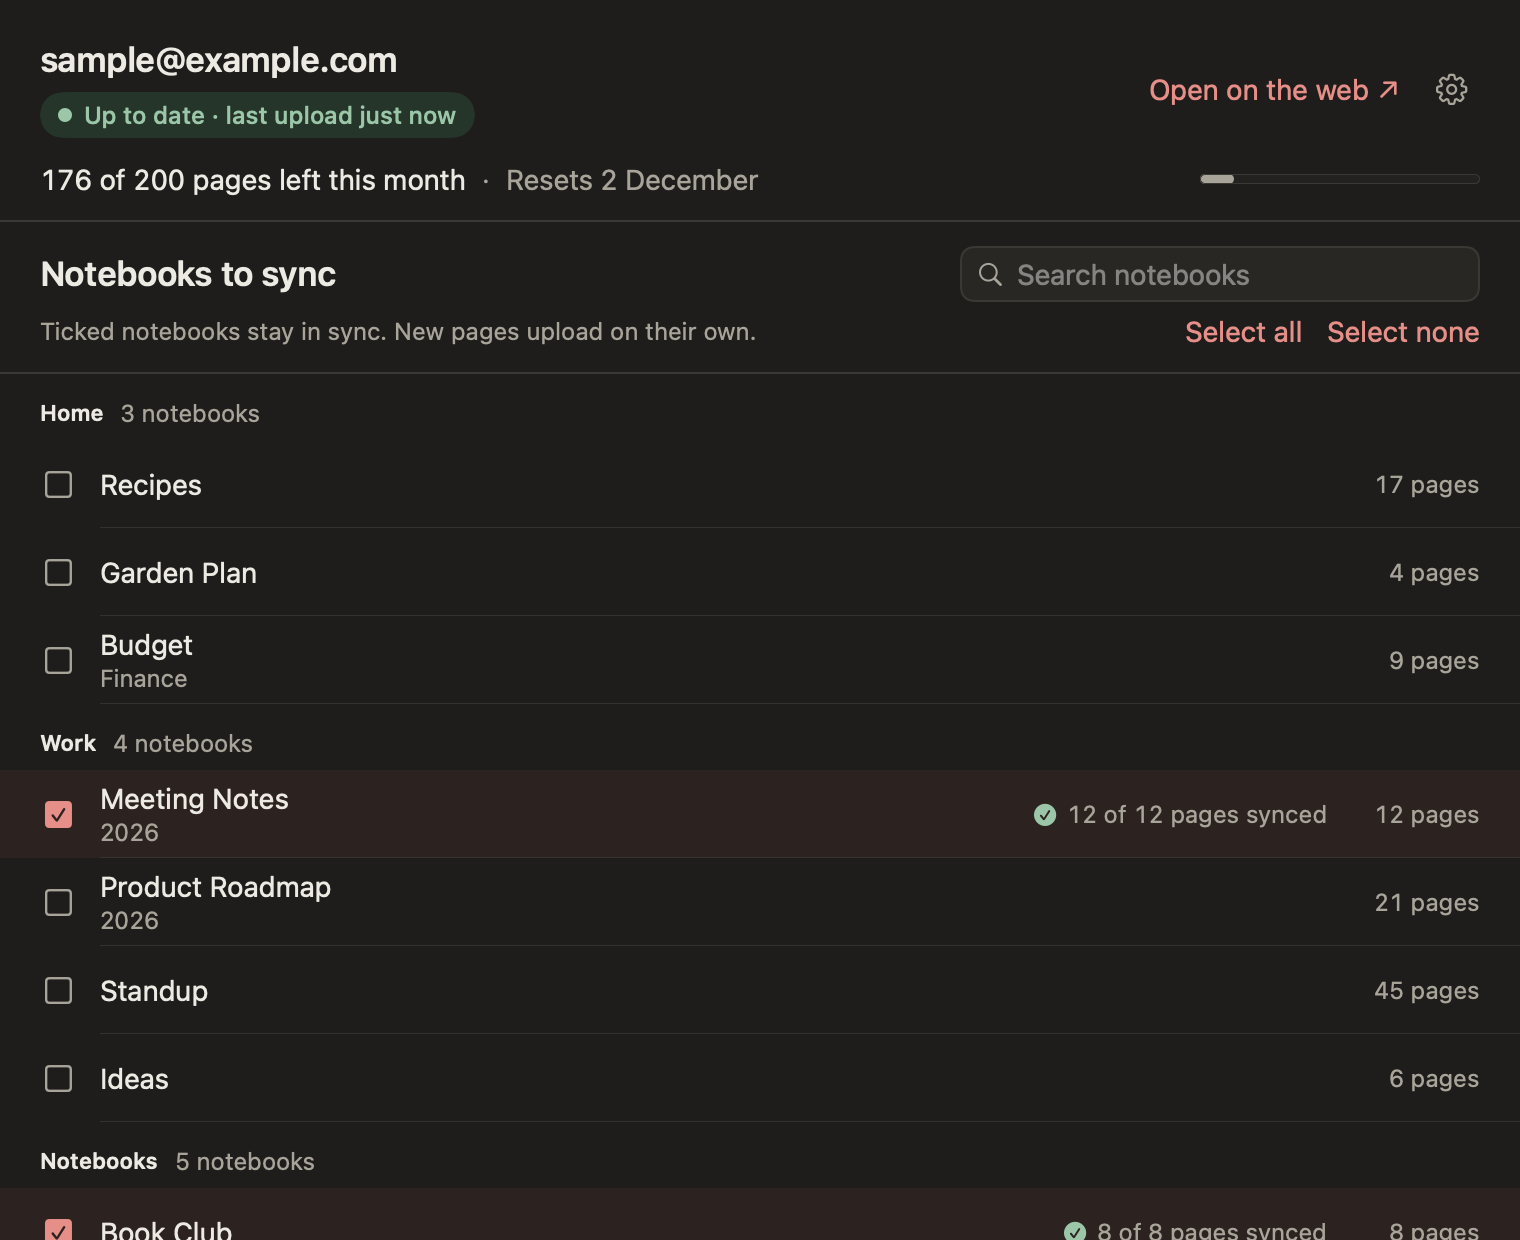
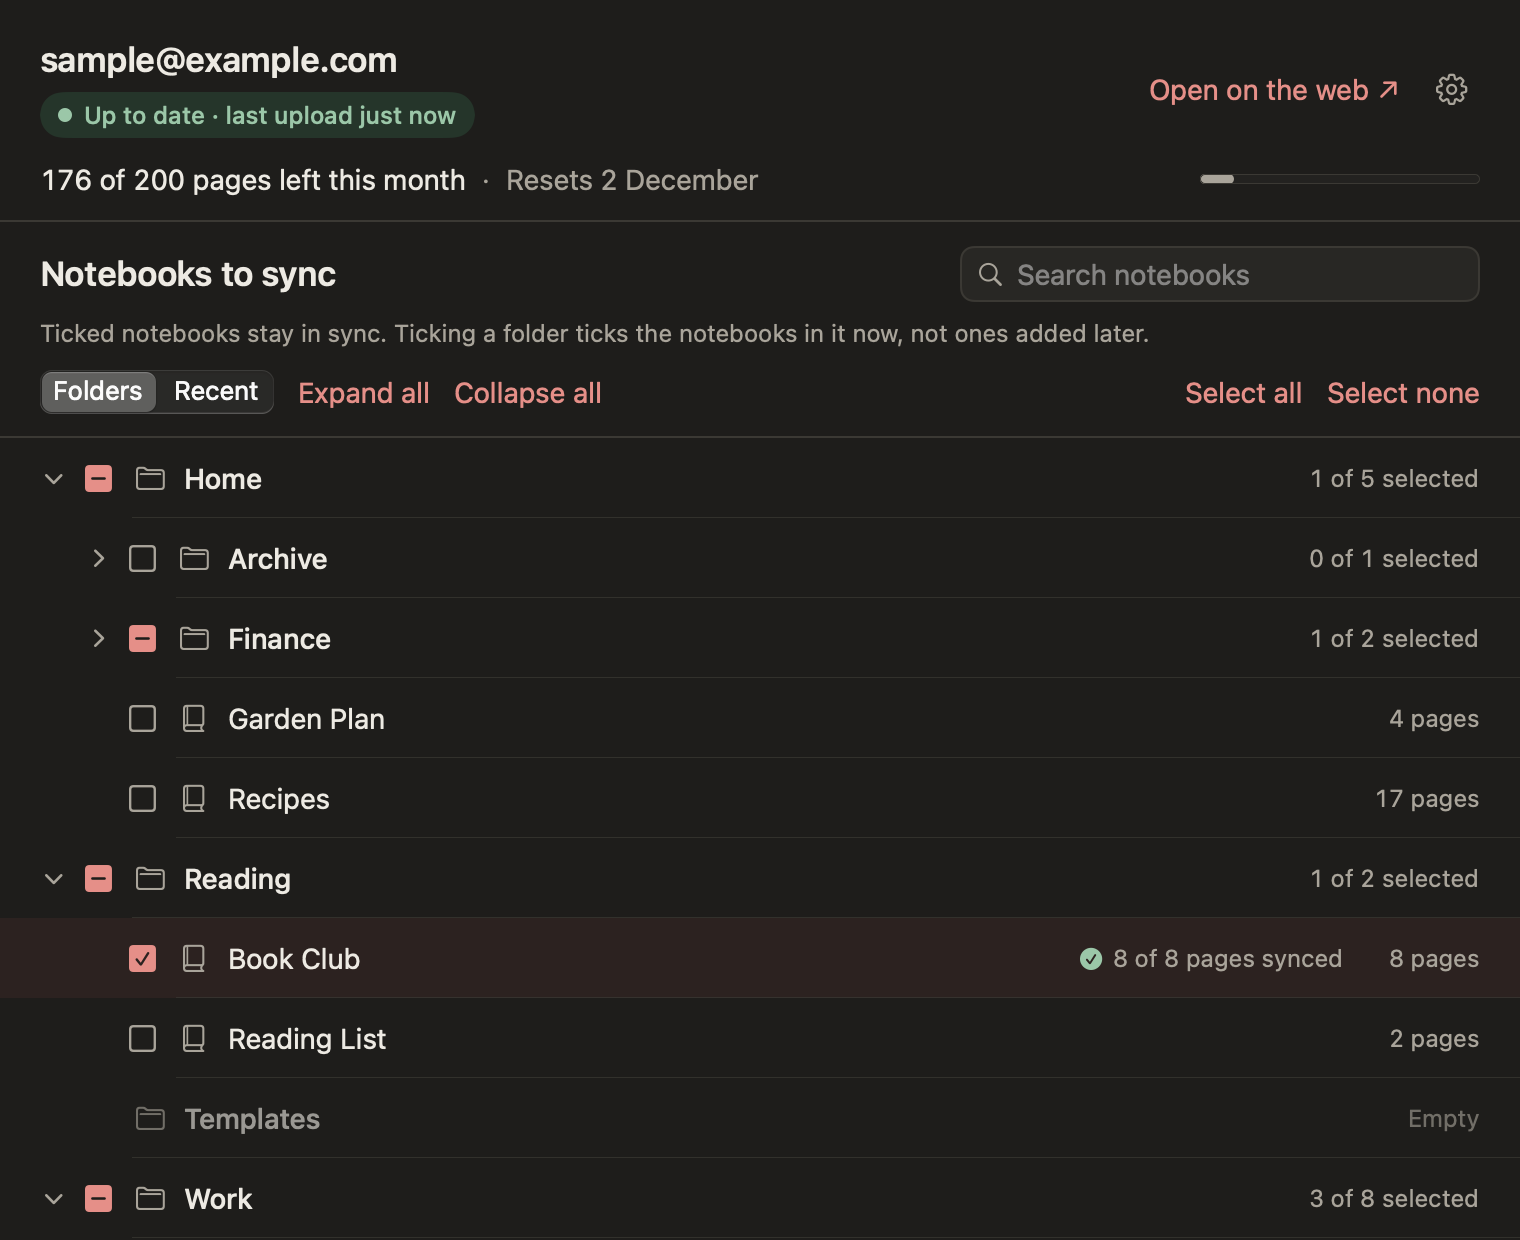
chore(agent-mac): render the folder tree and Recent screens; hand-test steps
Main-window screens use the nested library fixture; new screens for the
open tree with a highlight, search results, Recent with and without
'Synced only', and the minimum window size. The renderer no longer
reads or writes the list preferences.

diff --git a/agent/macos/Sources/RMirrorApp/App/ScreenRenderer.swift b/agent/macos/Sources/RMirrorApp/App/ScreenRenderer.swift
@@ -20,7 +20,11 @@ enum ScreenRenderer {
     private static let mainMinimumSize = CGSize(width: 640, height: 520)
     private static let settingsSize = CGSize(width: 520, height: 460)
 
+    /// True while screens are being rendered: windows then remember nothing and use the fixtures' clock.
+    static private(set) var isRendering = false
+
     static func run(outputDirectory: String) -> Int32 {
+        isRendering = true
         let app = NSApplication.shared
         app.setActivationPolicy(.prohibited)
 
@@ -119,27 +123,33 @@ enum ScreenRenderer {
     // MARK: Screens
 
     private static func screens() -> [Screen] {
+        let library = Fixtures.libraryNotebooks
         func main(_ name: String, core: CoreStatus = .running(CoreConnection(port: 5555, appToken: "preview")),
                   state: AppState?, suggestion: FirstRunSuggestion? = nil,
                   notebooks: [NotebookEntry] = [], guided: Bool = false, waiting: Bool = false,
                   unreachable: Bool = false, deleted: [DeletedNotebook] = []) -> Screen {
             Screen(name: name, size: mainSize) {
-                // The main window reloads the deleted notebooks from the API when it appears.
-                let api = MockLocalAPI(state: state ?? Fixtures.readyState)
+                // The main window reloads the notebooks and the deleted notebooks from the API when it appears.
+                let api = MockLocalAPI(state: state ?? Fixtures.readyState,
+                                       notebooks: notebooks.isEmpty ? Fixtures.readyNotebooks : library)
                 api.deletedNotebooksResult = .success(deleted)
                 let store = AppStore.preview(state: state, core: core, api: api, notebooks: notebooks,
+                                             folders: notebooks.isEmpty ? [] : library.folders,
                                              suggestion: suggestion, settings: Fixtures.settings,
                                              guidedSyncActive: guided, isWaitingForSignIn: waiting,
                                              suggestionUnreachable: unreachable, deletedNotebooks: deleted)
                 return AnyView(RootView().environmentObject(store))
             }
         }
-        /// The main window with an unsaved change, so the footer shows.
-        func mainWithFooter(_ name: String, size: CGSize, state: AppState, draft: Set<String>) -> Screen {
-            Screen(name: name, size: size) {
-                let store = AppStore.preview(state: state, notebooks: Fixtures.readyNotebooks.notebooks,
-                                             settings: Fixtures.settings)
-                return AnyView(MainView(previewDraft: draft).environmentObject(store).rmScreen())
+        /// The main window on the nested library, with the list set up as given and, with `draft`, an
+        /// unsaved change so the footer shows.
+        func mainList(_ name: String, size: CGSize? = nil, state: AppState = Fixtures.readyState,
+                      list: MainListPreview = MainListPreview(), draft: Set<String>? = nil) -> Screen {
+            Screen(name: name, size: size ?? mainSize) {
+                let api = MockLocalAPI(state: state, notebooks: library)
+                let store = AppStore.preview(state: state, api: api, notebooks: library.notebooks,
+                                             folders: library.folders, settings: Fixtures.settings)
+                return AnyView(MainView(previewDraft: draft, previewList: list).environmentObject(store).rmScreen())
             }
         }
         /// The first-sync screen with notebooks ticked (the suggestion is empty when no pages are left).
@@ -159,7 +169,10 @@ enum ScreenRenderer {
                 return AnyView(FirstSyncView(previewSelection: ticked).environmentObject(store).rmScreen())
             }
         }
-        let savedPlusTwo = NotebookList.savedSelection(Fixtures.readyNotebooks.notebooks).union(["nb-roadmap", "nb-ideas"])
+        let savedPlusTwo = NotebookList.savedSelection(library.notebooks).union(["nb-roadmap", "nb-ideas"])
+        let deepOpen: Set<String> = ["f-work", "f-work-2026", "f-work-2026-clients", "f-work-2026-clients-acme",
+                                     "f-work-2025", "f-home", "f-home-finance"]
+        let workOpen: Set<String> = ["f-work", "f-work-2026", "f-work-2026-clients", "f-work-2026-clients-acme"]
         var stoppedQuota = Fixtures.quotaExhaustedState
         stoppedQuota.firstSync = FirstSyncInfo(completed: true)
         stoppedQuota.sync = SyncProgress(
@@ -188,14 +201,24 @@ enum ScreenRenderer {
                             ticked: Set(Fixtures.threeNotebookSuggestion.notebooks.map(\.uuid))),
             main("first-sync-progress", state: Fixtures.firstSyncRunningState, guided: true),
             main("first-sync-result", state: Fixtures.syncDonePartialState, guided: true),
-            main("ready", state: Fixtures.readyState, notebooks: Fixtures.readyNotebooks.notebooks),
-            main("ready-quota", state: Fixtures.quotaExhaustedState, notebooks: Fixtures.readyNotebooks.notebooks),
-            main("ready-quota-not-paused", state: quotaNotPaused, notebooks: Fixtures.readyNotebooks.notebooks),
-            main("ready-deleted", state: Fixtures.readyState, notebooks: Fixtures.readyNotebooks.notebooks,
+            main("ready", state: Fixtures.readyState, notebooks: library.notebooks),
+            main("ready-quota", state: Fixtures.quotaExhaustedState, notebooks: library.notebooks),
+            main("ready-quota-not-paused", state: quotaNotPaused, notebooks: library.notebooks),
+            main("ready-deleted", state: Fixtures.readyState, notebooks: library.notebooks,
                  deleted: Fixtures.deletedNotebooks),
-            mainWithFooter("ready-footer", size: mainSize, state: Fixtures.readyState, draft: savedPlusTwo),
-            mainWithFooter("ready-quota-footer-min-size", size: mainMinimumSize,
-                           state: Fixtures.quotaExhaustedState, draft: savedPlusTwo),
+            mainList("ready-footer", draft: savedPlusTwo),
+            mainList("ready-quota-footer-min-size", size: mainMinimumSize, state: Fixtures.quotaExhaustedState,
+                     draft: savedPlusTwo),
+            mainList("tree-nested-open", list: MainListPreview(open: workOpen, highlight: .notebook("nb-kickoff"),
+                                                               keyboard: true)),
+            mainList("tree-search", list: MainListPreview(query: "2026")),
+            mainList("tree-min-size-footer", size: mainMinimumSize,
+                     list: MainListPreview(open: deepOpen, highlight: .folder("f-home-finance"), keyboard: true),
+                     draft: savedPlusTwo),
+            mainList("recent", list: MainListPreview(view: .recent)),
+            mainList("recent-synced-only", list: MainListPreview(view: .recent, syncedOnly: true)),
+            mainList("recent-synced-only-min-size", size: mainMinimumSize,
+                     list: MainListPreview(view: .recent, syncedOnly: true, query: "work")),
             main("first-sync-unreachable", state: Fixtures.firstSyncPendingState, unreachable: true),
             main("first-sync-result-stopped-quota", state: stoppedQuota, guided: true),
             Screen(name: "settings", size: settingsSize) {

diff --git a/agent/macos/docs/hand-test.md b/agent/macos/docs/hand-test.md
@@ -56,6 +56,27 @@ Before you start: quit any running rMirror 1.x from its menu bar icon (both use 
 - The header is below the title bar, and nothing clips at the smallest window size.
 - Write on the tablet, let the reMarkable app sync. Expected: the page uploads by itself within a minute or two.
 
+### Notebook list: folders, Recent, keyboard
+
+Needs a core that sends `folders` and `parent_uuid` (with an older core the folders are worked out from the paths).
+
+- Folders view: the folders match the tablet, nested, folders first A to Z, empty folders dimmed with "Empty".
+  Clicking a folder row opens or closes it; clicking its box ticks every notebook below it (a dash when only some
+  are ticked); the footer numbers are the same as ticking those notebooks one by one.
+- Close and reopen the window, then quit and start rMirror again. Expected: the same folders are open, the same
+  view (Folders or Recent) and the same "Synced only" setting.
+- Search: the list goes flat with folder paths; clearing it brings back the outline with the same folders open.
+- Recent: newest change first, with "2 hours ago" style times. "Synced only" shows ticked or uploaded notebooks;
+  unticking one there does not make it vanish until the filter is switched off and on again.
+- Keyboard (not covered by tests): click a row, then Up/Down move the outline, Right opens a folder or steps into
+  it, Left closes it or steps out, Space ticks, Return ticks a notebook or opens a folder. While the list has the
+  keyboard, Return does not save; click elsewhere or Tab to "Save and sync". Down in the search field moves into
+  the list; Return and Esc in the search field still only belong to the field; Cmd-F goes back to the search.
+  In Recent, Left and Right do nothing. The highlighted row scrolls into view.
+- VoiceOver on a folder row reads e.g. "Work, folder, 2 of 5 selected, expanded"; the Actions rotor offers
+  "Tick all in this folder".
+- With full keyboard access on (System Settings > Keyboard), Tab reaches the list and a focus ring shows.
+
 ## 7. Settings
 
 - "Open rMirror when I log in" on, then restart the Mac. Expected: the menu bar icon is back after login without
